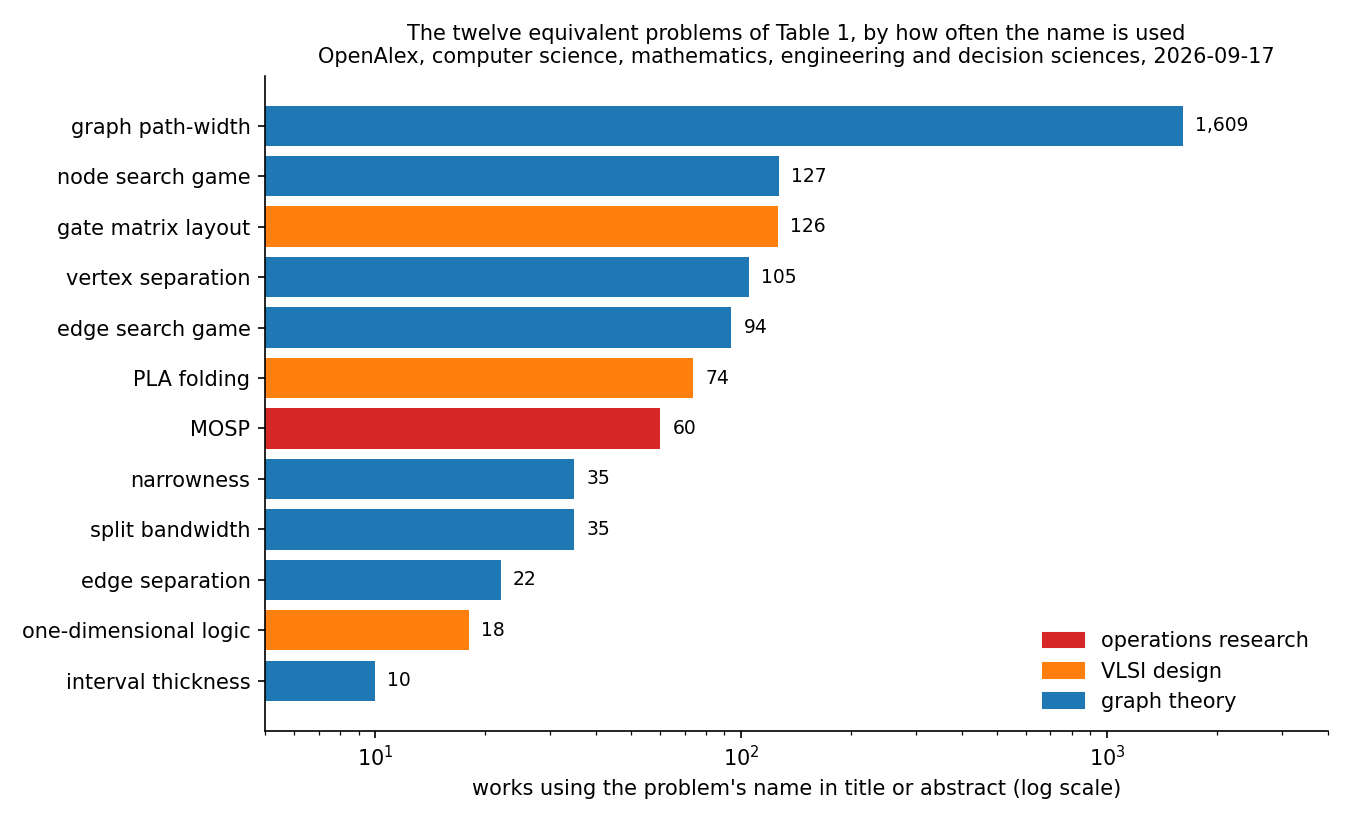
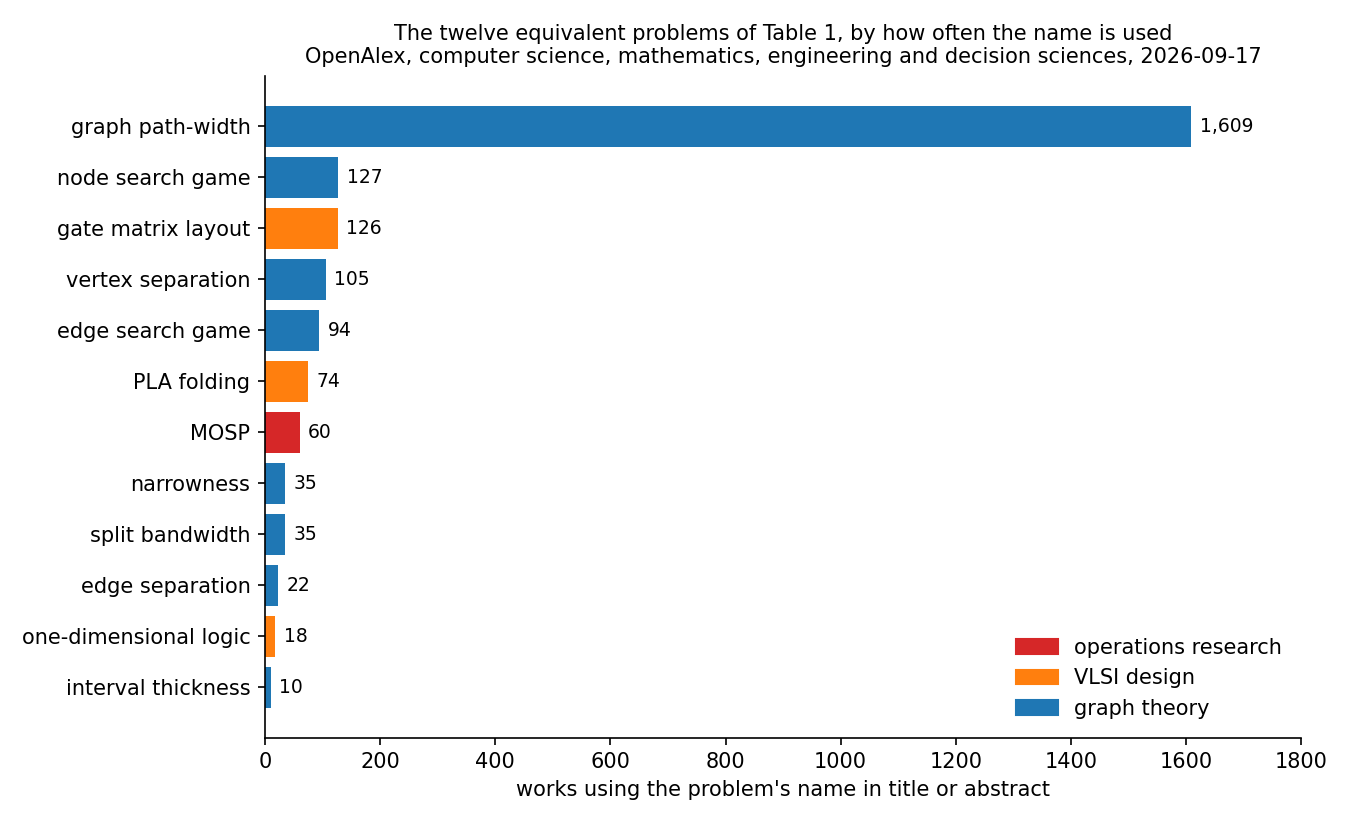
paper2: name-usage bars on a linear scale; add the name-versus-citations scatter to the popularity report

diff --git a/paper2/citation_graph.py b/paper2/citation_graph.py
@@ -196,10 +196,9 @@ def draw_popularity() -> Path:
     vals = [r[1] for r in rows][::-1]
     cols = [DISCIPLINE[r[2]][1] for r in rows][::-1]
     ax.barh(names, vals, color=cols)
-    ax.set_xscale("log")
     for i, v in enumerate(vals):
-        ax.text(v * 1.08, i, f"{v:,}", va="center", fontsize=9)
-    ax.set_xlabel("works using the problem's name in title or abstract (log scale)")
+        ax.text(v + 15, i, f"{v:,}", va="center", fontsize=9)
+    ax.set_xlabel("works using the problem's name in title or abstract")
     ax.set_title("The twelve equivalent problems of Table 1, by how often the name is used\n"
                  "OpenAlex, computer science, mathematics, engineering and decision sciences, 2026-09-17",
                  fontsize=10)
@@ -207,10 +206,88 @@ def draw_popularity() -> Path:
     ax.legend(handles=[Patch(color=c, label=n) for n, c in DISCIPLINE.values()],
               loc="lower right", frameon=False)
     ax.spines[["top", "right"]].set_visible(False)
-    ax.set_xlim(5, 4000)
+    ax.set_xlim(0, 1800)
     fig.tight_layout()
     FIGS.mkdir(exist_ok=True)
     out = FIGS / "table1_popularity.png"
+    fig.savefig(out, dpi=150)
+    return out
+
+
+# Name usage against citations of the defining paper, both from popularity.md
+# (OpenAlex, 2026-09-17). Where Table 1 gives two references the problem's own
+# is used: Wing et al. for gate matrix layout (Möhring is PLA folding's),
+# Yanasse 1997 for MOSP. Kinnersley serves pathwidth and vertex separation,
+# Möhring serves PLA folding and gate matrix layout, so shared papers are joined.
+SCATTER = [
+    ("graph path-width", 1609, 215, "GT", "Kinnersley 1992"),
+    ("node search game", 127, 124, "GT", "Kirousis & Papadimitriou 1985"),
+    ("gate matrix layout", 126, 89, "VLSI", "Wing et al. 1985"),
+    ("vertex separation", 105, 215, "GT", "Kinnersley 1992"),
+    ("edge search game", 94, 294, "GT", "Kirousis & Papadimitriou 1986"),
+    ("PLA folding", 74, 134, "VLSI", "Möhring 1990"),
+    ("MOSP", 60, 74, "OR", "Yanasse 1997"),
+    ("narrowness", 35, 44, "GT", "Kornai & Tuza 1992"),
+    ("split bandwidth", 35, 19, "GT", "Fomin 1998"),
+    ("edge separation", 22, 77, "GT", "Lengauer 1981"),
+    ("one-dimensional logic", 18, 107, "VLSI", "Ohtsuki et al. 1979"),
+    ("interval thickness", 10, None, "GT", "Kashiwabara & Fujisawa 1979"),
+]
+
+
+def draw_scatter() -> Path:
+    import matplotlib
+    matplotlib.use("Agg")
+    import matplotlib.pyplot as plt
+    from matplotlib.patches import Patch
+
+    fig, ax = plt.subplots(figsize=(9.5, 7.5))
+    lo, hi, floor = 7, 3000, 10
+    ax.fill_between([lo, hi], [lo, hi], hi, color="#eef3fb", lw=0)
+    ax.fill_between([lo, hi], lo, [lo, hi], color="#fbf1e6", lw=0)
+    ax.plot([lo, hi], [lo, hi], color="0.5", ls="--", lw=1)
+    ax.text(12, 560, "paper cited more\nthan the name is used:\nthe result lives on,\nthe name has faded",
+            fontsize=9.5, color="#2b4c7e", va="top")
+    ax.text(2700, 8.5, "name used more\nthan the paper is cited:\nthe name has spread\nbeyond its source",
+            fontsize=9.5, color="#8a5a1c", ha="right", va="bottom")
+    pts = {}
+    for name, works, cites, disc, ref in SCATTER:
+        c = DISCIPLINE[disc][1]
+        if cites is None:
+            ax.scatter(works, floor, marker="v", s=90, facecolor="white", edgecolor=c, lw=1.6, zorder=3)
+            ax.annotate(f"{name}\n({ref}: not indexed)", (works, floor), xytext=(8, 2),
+                        textcoords="offset points", fontsize=8.5, color="0.3")
+            continue
+        pts[name] = (works, cites)
+        ax.scatter(works, cites, s=110, color=c, edgecolor="k", lw=0.6, zorder=3)
+    for a, b in [("graph path-width", "vertex separation")]:
+        (x1, y1), (x2, y2) = pts[a], pts[b]
+        ax.plot([x1, x2], [y1, y2], color="0.6", lw=0.8, ls=":", zorder=2)
+    offsets = {"graph path-width": (-10, 10, "right"), "vertex separation": (8, 6, "left"),
+               "edge search game": (8, 4, "left"), "node search game": (8, -2, "left"),
+               "gate matrix layout": (8, -10, "left"), "PLA folding": (8, 4, "left"),
+               "MOSP": (8, -4, "left"), "narrowness": (-8, 4, "right"),
+               "split bandwidth": (8, -6, "left"), "edge separation": (-8, 2, "right"),
+               "one-dimensional logic": (8, 2, "left")}
+    for name, (x, y) in pts.items():
+        dx, dy, ha = offsets[name]
+        ax.annotate(name, (x, y), xytext=(dx, dy), textcoords="offset points",
+                    ha=ha, fontsize=9.5, weight="bold" if name in ("graph path-width", "MOSP") else None)
+    ax.set_xscale("log"); ax.set_yscale("log")
+    ax.set_xlim(lo, hi); ax.set_ylim(lo, 700)
+    ax.set_xlabel("works using the problem's name in title or abstract (log scale)")
+    ax.set_ylabel("citations of the paper Table 1 cites for it (log scale)")
+    ax.set_title("Is the name alive, or only the result?\nThe twelve problems of Linhares & Yanasse (2002), Table 1; OpenAlex, 2026-09-17",
+                 fontsize=10.5)
+    ax.legend(handles=[Patch(color=c, label=n) for n, c in DISCIPLINE.values()],
+              loc="center right", bbox_to_anchor=(1.0, 0.45), frameon=False)
+    fig.text(0.01, 0.005, "Dotted line: pathwidth and vertex separation share Kinnersley 1992. "
+             "Gate matrix layout uses Wing et al. 1985; MOSP uses Yanasse 1997.",
+             ha="left", va="bottom", fontsize=7.5, color="0.35")
+    ax.spines[["top", "right"]].set_visible(False)
+    fig.tight_layout(rect=(0, 0.03, 1, 1))
+    FIGS.mkdir(exist_ok=True)
+    out = FIGS / "table1_name_vs_citations.png"
     fig.savefig(out, dpi=150)
     return out
 
@@ -222,3 +299,4 @@ if __name__ == "__main__":
     data = fetch() if a.refresh or not CACHE.exists() else json.loads(CACHE.read_text())
     print(draw_network(data))
     print(draw_popularity())
+    print(draw_scatter())

diff --git a/paper2/popularity.md b/paper2/popularity.md
@@ -103,6 +103,20 @@ by sampling returned titles. Remaining caveats:
 
 ![Name usage of the twelve problems](figures/table1_popularity.png)
 
+![Name usage against citations of the defining paper](figures/table1_name_vs_citations.png)
+
+The bar chart is on a linear scale on purpose: pathwidth's bar is longer than
+the other eleven put together, which is the first finding above. The scatter
+puts the report's two measures against each other. Above the diagonal, the
+paper Table 1 cites is cited more often than the problem's name is used: the
+result is still in use but the name is not. Seven of the eleven indexed
+problems sit there, one-dimensional logic and edge separation furthest out.
+Below the diagonal the name has outgrown its source paper. Pathwidth is the
+only problem far below it, with about 7.5 works using the name for every
+citation of Kinnersley (1992). Node search sits on the line, and gate matrix
+layout and split bandwidth just below it. MOSP sits close to the line, with
+the name and the paper at similar, small counts.
+
 Regenerate with `python -m paper2.citation_graph` (OpenAlex responses cached in
 `paper2/data/openalex_citations.json`; `--refresh` re-fetches). The network
 has the eleven indexed Table 1 papers plus Linhares & Yanasse (2002) itself on
